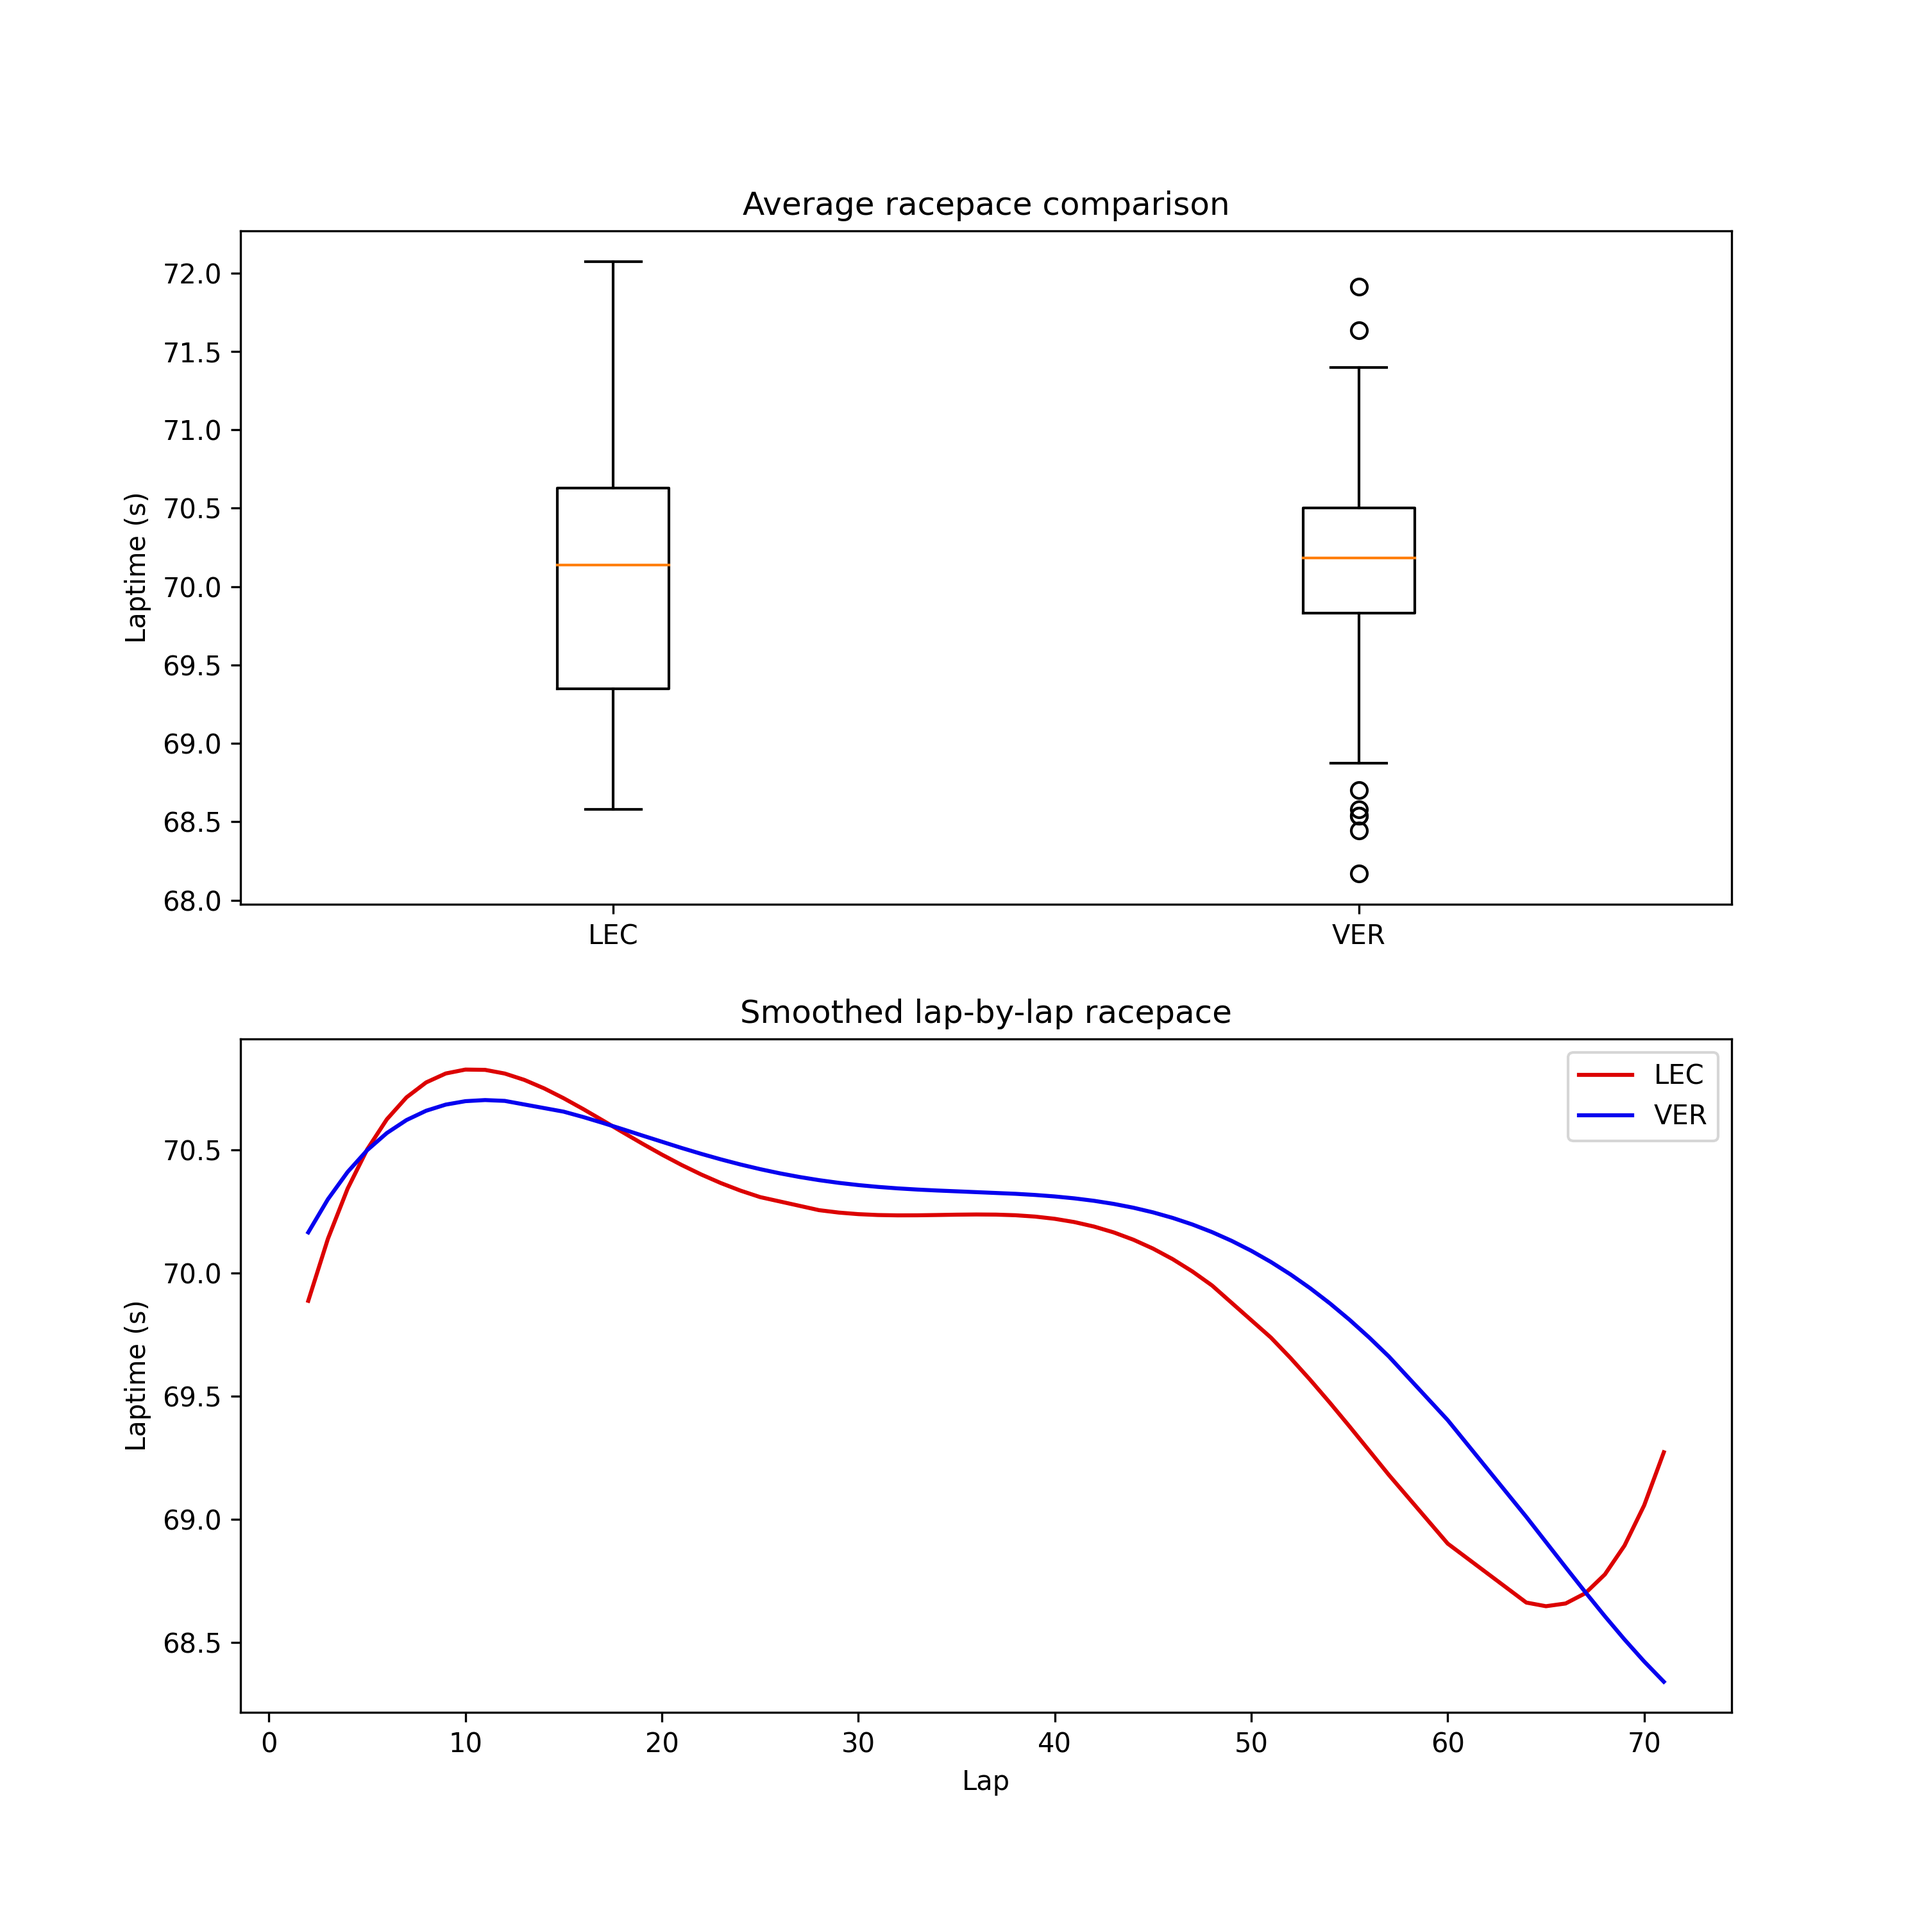
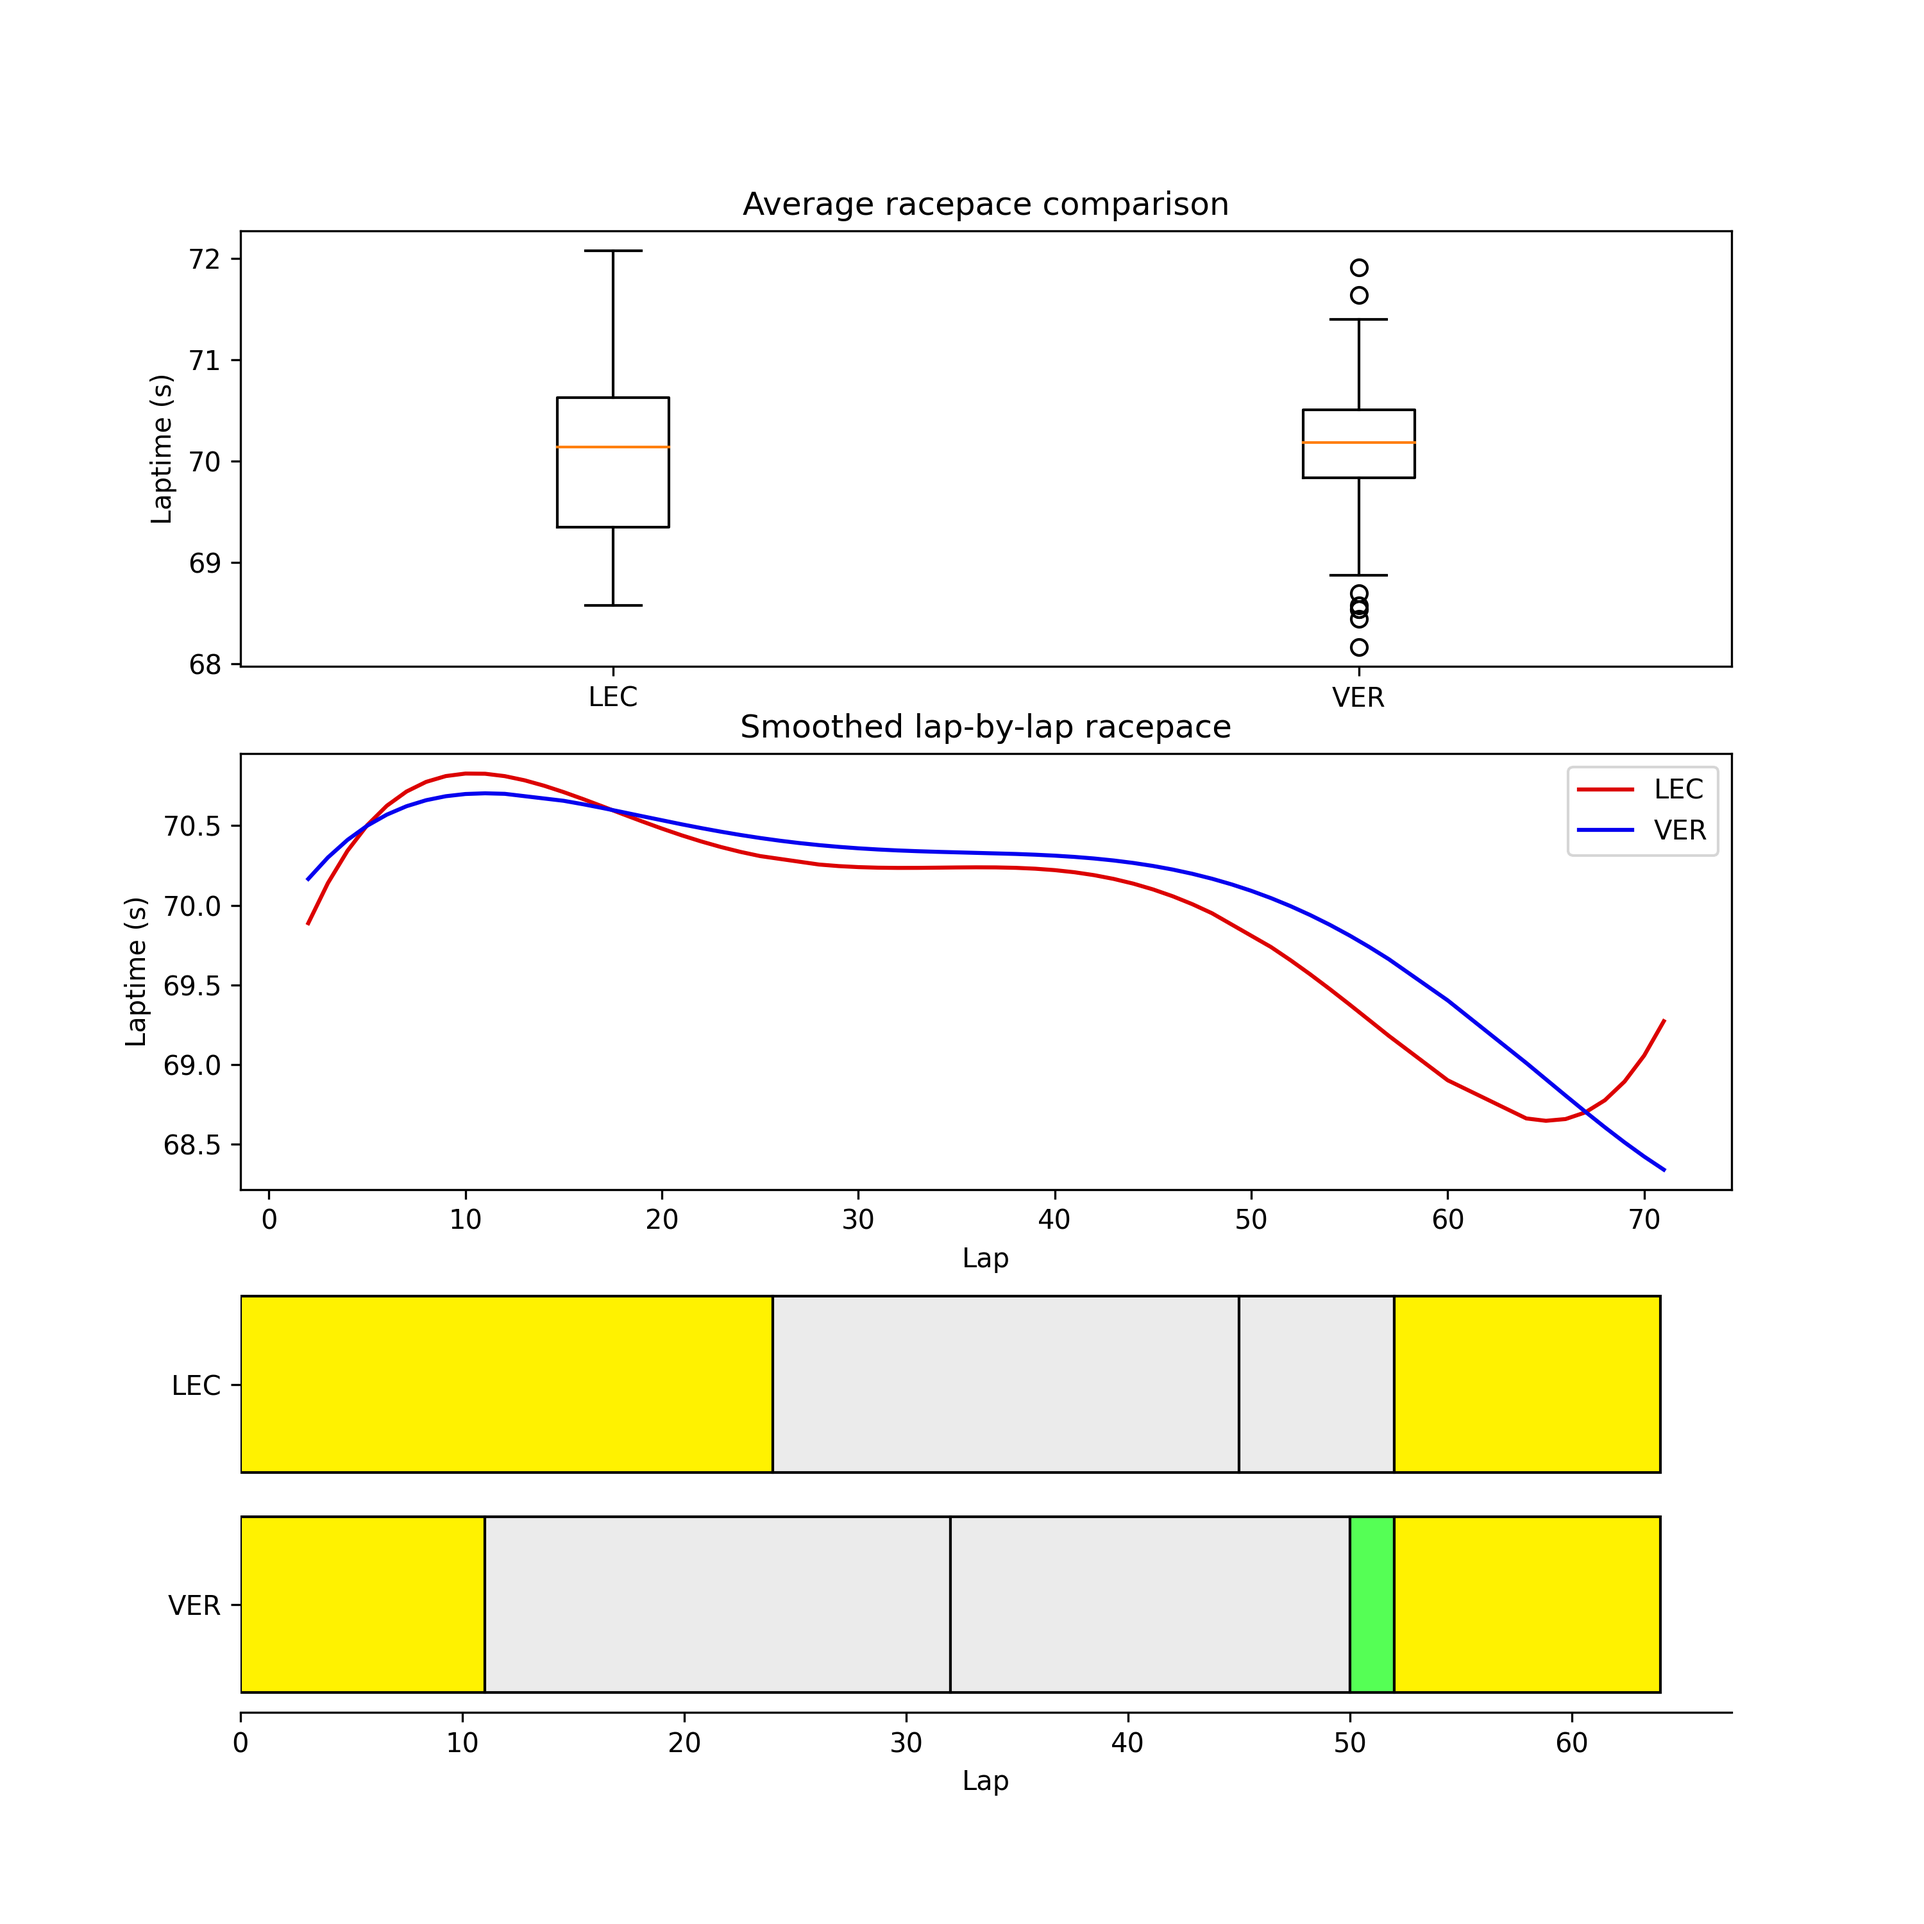
race strategy

diff --git a/analisys.py b/analisys.py
@@ -128,7 +128,7 @@ def RaceAnalisys(driver_1, driver_2, race):
     plt.rcParams['figure.figsize'] = [10, 10]
 
     # Create 2 subplots (1 for the boxplot, 1 for the lap-by-lap comparison)
-    fig, ax = plt.subplots(2)
+    fig, ax = plt.subplots(3)
 
     drivers_to_visualize = [driver_1, driver_2]
 
@@ -188,6 +188,56 @@ def RaceAnalisys(driver_1, driver_2, race):
         
         # Add the team to the visualized teams variable so that the next time the linestyle will be different
         visualized_teams.append(team)
+
+    # Add the strategy analisys to the plot
+    driver_stints = laps[['Driver', 'Stint', 'Compound', 'LapNumber']].groupby(
+    ['Driver', 'Stint', 'Compound']).count().reset_index()
+
+    driver_stints = driver_stints.rename(columns={'LapNumber': 'StintLength'})
+
+    driver_stints = driver_stints.sort_values(by=['Stint'])
+
+    compound_colors = {
+        'SOFT': '#FF3333',
+        'MEDIUM': '#FFF200',
+        'HARD': '#EBEBEB',
+        'INTERMEDIATE': '#39B54A',
+        'WET': '#00AEEF',
+        'UNKNOWN': '#55FF55'
+    }
+
+    plt.rcParams["figure.figsize"] = [15, 10]
+    plt.rcParams["figure.autolayout"] = True
+
+    for driver in drivers_to_visualize:
+        stints = driver_stints.loc[driver_stints['Driver'] == driver]
+        
+        previous_stint_end = 0
+        for _, stint in stints.iterrows():
+            print(stint)
+            plt.barh(
+                [driver], 
+                stint['StintLength'], 
+                left=previous_stint_end, 
+                color=compound_colors[stint.get('Compound')], 
+                edgecolor = "black"
+            )
+            
+            previous_stint_end = previous_stint_end + stint['StintLength']
+            
+    # Set title
+    # plt.title(f'Race strategy')
+            
+    # Set x-label
+    plt.xlabel('Lap')
+
+    # Invert y-axis 
+    plt.gca().invert_yaxis()
+
+    # Remove frame from plot
+    ax[2].spines['top'].set_visible(False)
+    ax[2].spines['right'].set_visible(False)
+    ax[2].spines['left'].set_visible(False)
 
     plt.savefig(plot_filename, dpi=300)
     return plot_filename
